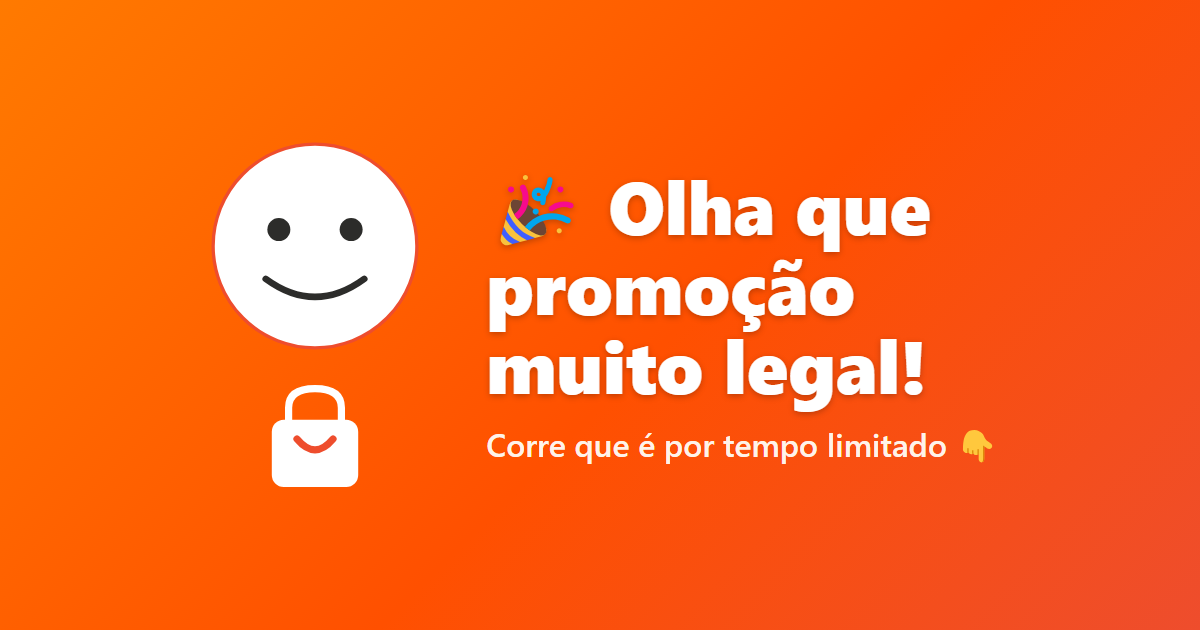
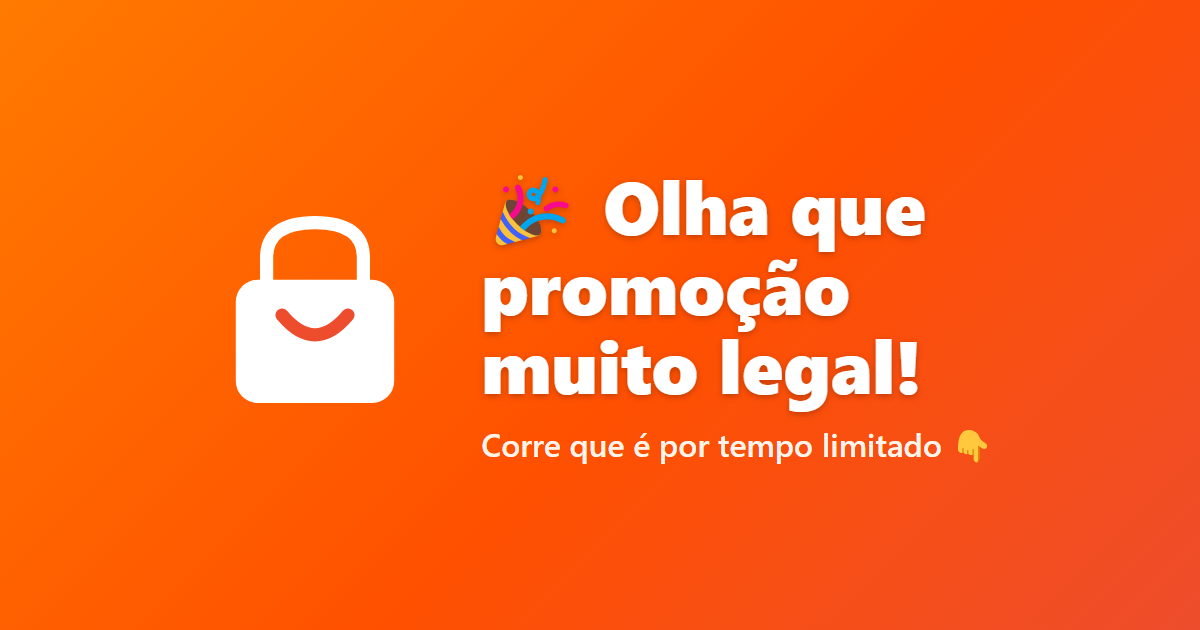
Fix nao button not hiding, add delay before WhatsApp redirect, change message to gift framing, simplify OG image

diff --git a/index.html b/index.html
@@ -288,13 +288,16 @@
 
     simBtn.addEventListener('click', function () {
       question.style.display = 'none';
+      naoBtn.style.display = 'none';
       ctaBtn.style.display = 'block';
       spawnRain('❤️', 34, true);
 
       var phone = '[phone redacted]';
-      var message = 'Compra autorizada pela minha grandiosa, plena e doce esposa, linda e maravilhosa! 😍❤️';
+      var message = '🎁 Presente aprovado! Minha esposa grandiosa, plena e doce, linda e maravilhosa quer te dar a Bambu Lab A1 mini de presente! 😍❤️';
       var waUrl = 'https://wa.me/' + phone + '?text=' + encodeURIComponent(message);
-      window.open(waUrl, '_blank');
+      setTimeout(function () {
+        window.location.href = waUrl;
+      }, 1800);
     });
   </script>
 </body>